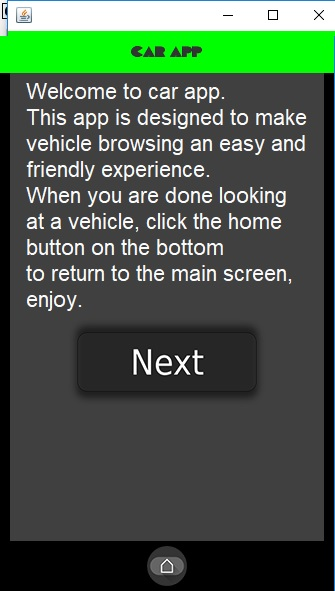
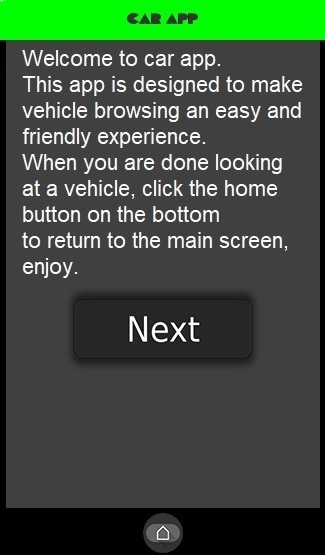
added carApp photos

Changed region(s): [[0.0, 0.0, 1.0, 1.0], [0.4615, 0.9495, 0.5846, 1.0], [0.7692, 0.5514, 0.8, 0.582]]

diff --git a/index.html b/index.html
@@ -17,6 +17,9 @@
 			width: 50%;
 			margin: auto;
 		}
+		div img {
+			padding: 3px;
+		}
 
 		nav {
 			padding-top: 10px;
@@ -60,7 +63,7 @@
 		}
 
 		p {
-
+			line-height: 1.5;
 			font-family: Helvetica;
 			color: #55d6cc;
 
@@ -100,7 +103,7 @@
 		<div id='phone'>
 
 			<p>This project, one can see the current time on the lock screen of an iPhone.I designed designed an iPhone using html and css. I used JavaScript to get input of date and time from the computer. The has a frame refressh rate at 10000 mili seconds.<p>
-			<img src='' alt="phone photo"> 
+			<img src='res/phone.jpg' alt="phone photo"> 
 
 		</div>	
 
@@ -108,8 +111,12 @@
 
 		<div id='car-app'>
 	
-			<p>CarApp is a Java program which simulates a mobile app where the users get o navigate a list of cars in order to purchase a one. When the user clicks on the type of car, the page shows the options available for that type. The user then can click on a specific model. After the user clicked on a model, the details of the car will show up. All the elements in this program were programmed in Java.
-			<img src='#' alt="screen shots of CarApp"> 
+			<p>CarApp is a Java program which simulates a mobile app where the users get o navigate a list of cars in order to purchase a one. When the user clicks on the type of car, the page shows the options available for that type. The user then can click on a specific model. After the user clicked on a model, the details of the car will show up. All the elements in this program were programmed in Java.</p>
+
+			<img src='res/CarApp1.jpg' alt="screen shots of CarApp"> 
+			<img src='res/CarApp2.jpg' alt="screen shots of CarApp"> 
+			<img src='res/CarApp3.jpg' alt="screen shots of CarApp"> 
+			<img src='res/CarApp4.jpg' alt="screen shots of CarApp"> 
 
 		</div>
 
